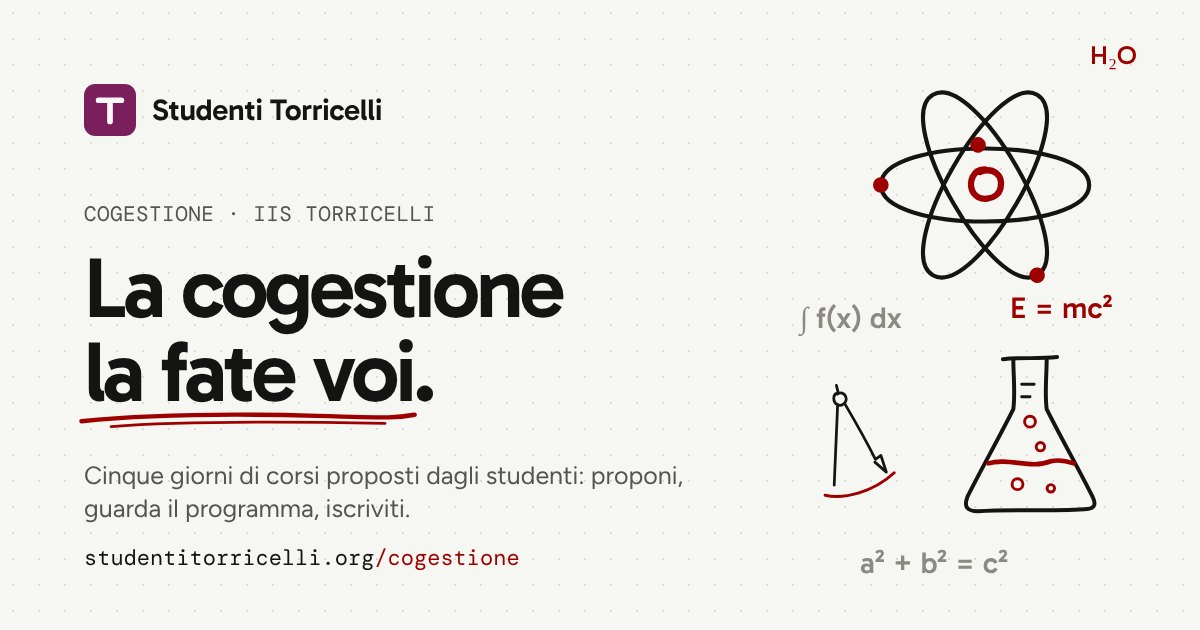
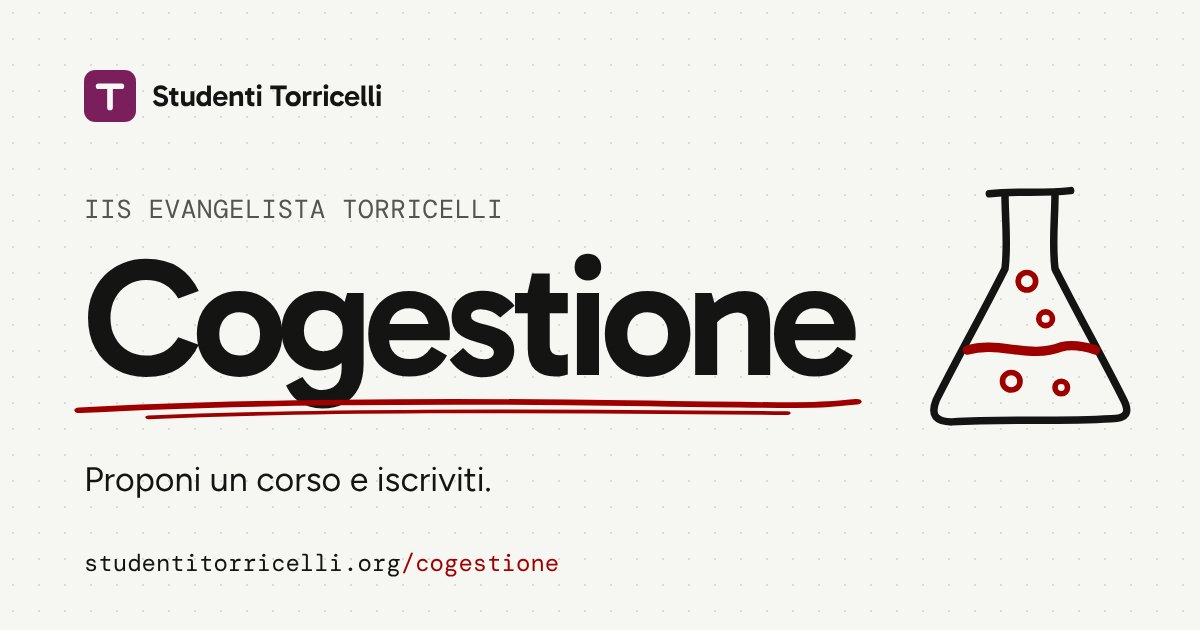
Anteprima della cogestione più semplice e leggibile
Claude-Session: https://claude.ai/code/session_01P5RcaywPDeCNnLfVMPN1t8

diff --git a/docs/anteprima-social/modello.html b/docs/anteprima-social/modello.html
@@ -30,6 +30,15 @@
   .d { position: absolute; }
   .formula { position: absolute; font: 500 30px 'Gabarito'; color: var(--testo-3); }
   .formula.r { color: var(--rosso); }
+  body.semplice .testi { top: 70px; width: 820px; }
+  body.semplice .sopra { margin-top: 70px; font-size: 26px; }
+  body.semplice h1 { margin-top: 10px; font-size: 168px; letter-spacing: -0.05em; }
+  body.semplice .segnato svg { bottom: -22px; height: 34px; }
+  body.semplice .sotto { margin-top: 56px; font-size: 34px; color: var(--testo); width: 760px; }
+  body.semplice .decoro { display: none; }
+  body.semplice .dominio { bottom: 52px; font-size: 24px; }
+  .grande { display: none; }
+  body.semplice .grande { display: block; }
 </style>
 </head>
 <body>
@@ -45,14 +54,14 @@
   <p class="dominio" id="dominio"></p>
 
   <!-- Atomo -->
-  <svg class="s d" style="left:860px; top:60px; width:250px" viewBox="0 0 96 96">
+  <svg class="s d decoro" style="left:860px; top:60px; width:250px" viewBox="0 0 96 96">
     <g transform="rotate(0 48 48)"><path stroke-width="1.6" d="M8 48 C 8 29.3, 88 29.3, 88 48 C 88 66.7, 8 66.7, 8 48"/><circle class="pieno" r="3" cx="8" cy="48"/></g>
     <g transform="rotate(60 48 48)"><path stroke-width="1.6" d="M8 48 C 8 29.3, 88 29.3, 88 48 C 88 66.7, 8 66.7, 8 48"/><circle class="pieno" r="3" cx="88" cy="48"/></g>
     <g transform="rotate(-60 48 48)"><path stroke-width="1.6" d="M8 48 C 8 29.3, 88 29.3, 88 48 C 88 66.7, 8 66.7, 8 48"/><circle class="pieno" r="3" cx="60" cy="38"/></g>
     <path stroke-width="2.4" class="rosso" d="M48 42 C 43 42, 42 47, 43 50 C 45 55, 53 54, 54 49 C 55 44, 51 41, 46 43"/>
   </svg>
   <!-- Beuta -->
-  <svg class="s d" style="left:930px; top:330px; width:200px" viewBox="0 0 96 96">
+  <svg class="s d decoro" style="left:930px; top:330px; width:200px" viewBox="0 0 96 96">
     <path stroke-width="1.9" d="M40 14 C 40 22, 41 30, 40 38 C 33 52, 25 66, 18 80 C 16 85, 18 87, 23 87 C 40 86, 57 87, 74 86 C 79 86, 80 84, 78 80 C 71 66, 63 52, 56 38 C 55 30, 56 22, 56 14"/>
     <path stroke-width="1.9" d="M35 14 C 44 13, 52 14, 61 13"/>
     <path stroke-width="2.2" class="rosso" d="M28 64 C 38 61, 48 67, 58 63 C 62 62, 66 63, 69 64"/>
@@ -60,17 +69,25 @@
     <circle class="rosso" cx="42" cy="74" r="2.6" stroke-width="1.4"/><circle class="rosso" cx="53" cy="56" r="2" stroke-width="1.4"/><circle class="rosso" cx="48" cy="44" r="2.6" stroke-width="1.4"/><circle class="rosso" cx="58" cy="76" r="1.8" stroke-width="1.4"/>
   </svg>
   <!-- Compasso -->
-  <svg class="s d" style="left:790px; top:380px; width:120px; transform: rotate(-14deg)" viewBox="0 0 96 96">
+  <svg class="s d decoro" style="left:790px; top:380px; width:120px; transform: rotate(-14deg)" viewBox="0 0 96 96">
     <path stroke-width="2.2" d="M48 9 C 43 9, 42 15, 45 18 C 48 21, 54 18, 53 13 C 52 10, 50 9, 47 10"/>
     <path stroke-width="2.2" d="M48 9 L 48 3"/>
     <path stroke-width="2.2" d="M45 19 C 39 40, 33 60, 27 80"/>
     <path stroke-width="2.2" d="M51 19 C 56 36, 60 50, 64 68 L 69 66 L 70 80 L 63 70"/>
     <path stroke-width="2.4" class="rosso" d="M18 86 C 32 93, 56 93, 76 82"/>
   </svg>
-  <span class="formula r" style="left:1010px; top:290px">E = mc²</span>
-  <span class="formula" style="left:800px; top:300px">∫ f(x) dx</span>
-  <span class="formula" style="left:860px; top:545px">a² + b² = c²</span>
-  <span class="formula r" style="left:1090px; top:40px; font-size:26px">H₂O</span>
+  <span class="decoro formula r" style="left:1010px; top:290px">E = mc²</span>
+  <span class="decoro formula" style="left:800px; top:300px">∫ f(x) dx</span>
+  <span class="decoro formula" style="left:860px; top:545px">a² + b² = c²</span>
+  <span class="decoro formula r" style="left:1090px; top:40px; font-size:26px">H₂O</span>
+
+<!-- Beuta grande, per la versione semplice -->
+  <svg class="s d grande" style="left:880px; top:150px; width:300px" viewBox="0 0 96 96">
+    <path stroke-width="2.4" d="M40 14 C 40 22, 41 30, 40 38 C 33 52, 25 66, 18 80 C 16 85, 18 87, 23 87 C 40 86, 57 87, 74 86 C 79 86, 80 84, 78 80 C 71 66, 63 52, 56 38 C 55 30, 56 22, 56 14"/>
+    <path stroke-width="2.4" d="M35 14 C 44 13, 52 14, 61 13"/>
+    <path stroke-width="3" class="rosso" d="M28 64 C 38 61, 48 67, 58 63 C 62 62, 66 63, 69 64"/>
+    <circle class="rosso" cx="42" cy="74" r="2.8" stroke-width="1.8"/><circle class="rosso" cx="53" cy="54" r="2.2" stroke-width="1.8"/><circle class="rosso" cx="47" cy="42" r="2.8" stroke-width="1.8"/><circle class="rosso" cx="58" cy="76" r="2" stroke-width="1.8"/>
+  </svg>
 
 <script>
   const p = new URLSearchParams(location.search);
@@ -82,13 +99,15 @@
       dominio: 'studentitorricelli.org',
     },
     cogestione: {
-      sopra: 'Cogestione · IIS Torricelli',
-      titolo: 'La cogestione <span class="segnato">la fate voi<svg viewBox="0 0 300 24" preserveAspectRatio="none" class="s"><path class="rosso" stroke-width="4" d="M4 15 C 60 9, 140 8, 210 10 S 280 12, 296 9"/><path class="rosso" stroke-width="2.6" d="M30 20 C 90 15, 170 15, 270 17"/></svg></span>.',
-      sotto: 'Cinque giorni di corsi proposti dagli studenti: proponi, guarda il programma, iscriviti.',
+      semplice: true,
+      sopra: 'IIS Evangelista Torricelli',
+      titolo: '<span class="segnato">Cogestione<svg viewBox="0 0 300 24" preserveAspectRatio="none" class="s"><path class="rosso" stroke-width="4" d="M4 15 C 60 9, 140 8, 210 10 S 280 12, 296 9"/><path class="rosso" stroke-width="2.6" d="M30 20 C 90 15, 170 15, 270 17"/></svg></span>',
+      sotto: 'Proponi un corso e iscriviti.',
       dominio: 'studentitorricelli.org<b>/cogestione</b>',
     },
   }[p.get('pagina') || 'sito'];
-  for (const k in t) document.getElementById(k).innerHTML = t[k];
+  if (t.semplice) document.body.classList.add('semplice');
+  for (const k of ['sopra', 'titolo', 'sotto', 'dominio']) document.getElementById(k).innerHTML = t[k];
 </script>
 </body>
 </html>

diff --git a/cogestione/index.html b/cogestione/index.html
@@ -21,7 +21,7 @@
     <meta property="og:image:type" content="image/jpeg" />
     <meta property="og:image:width" content="1200" />
     <meta property="og:image:height" content="630" />
-    <meta property="og:image:alt" content="Cogestione del Torricelli: la cogestione la fate voi. Disegni di un atomo, una beuta e un compasso." />
+    <meta property="og:image:alt" content="Cogestione del Torricelli: proponi un corso e iscriviti. Disegno di una beuta." />
     <meta name="twitter:card" content="summary_large_image" />
     <meta name="twitter:title" content="Cogestione · Torricelli" />
     <meta name="twitter:description" content="Proposte, programma e iscrizioni della cogestione dell&#39;IIS Evangelista Torricelli." />
